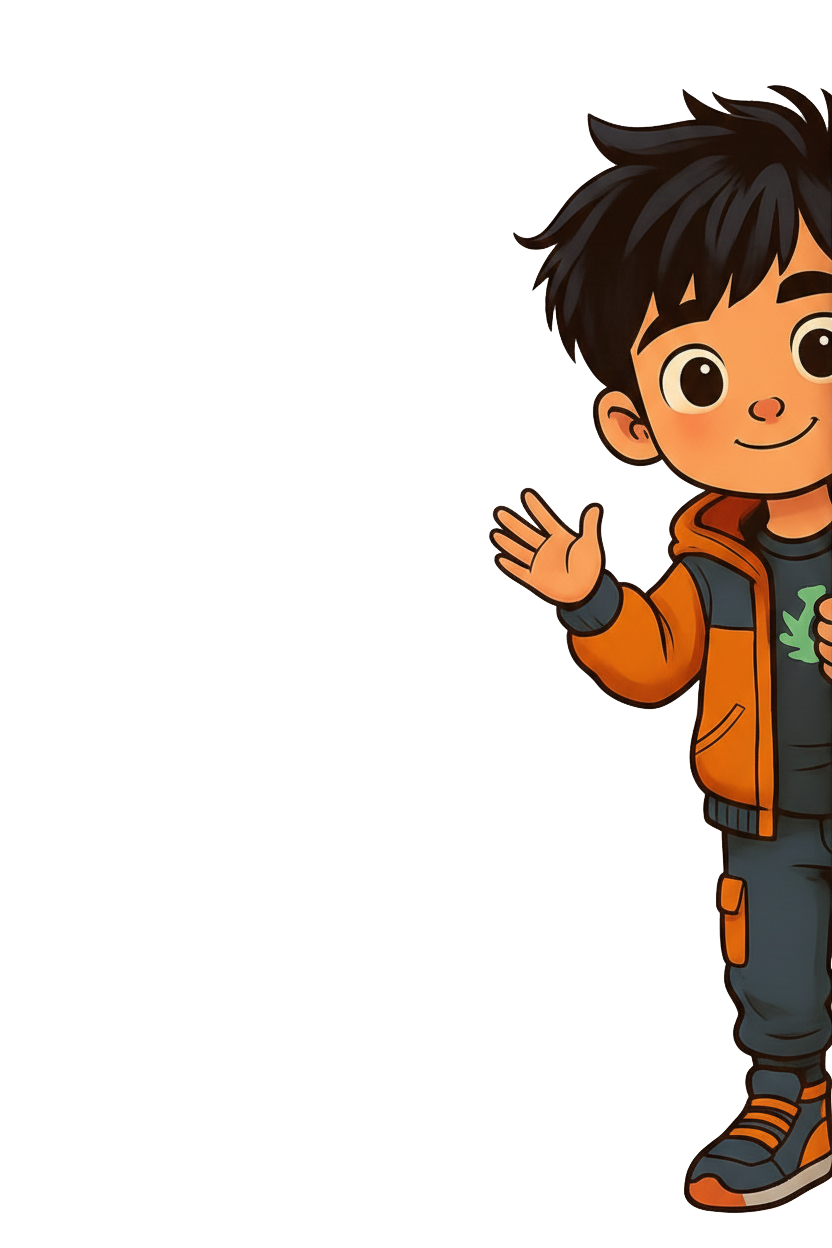
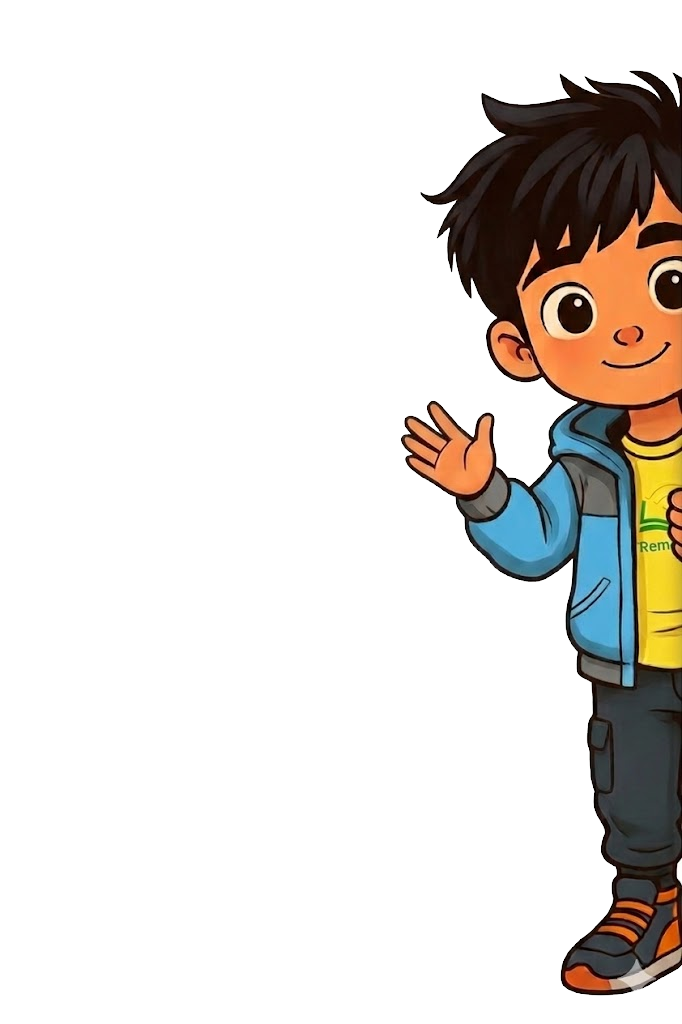
update characters

diff --git a/public/index.html b/public/index.html
@@ -79,7 +79,7 @@
         </div>
         <div class="hero-media">
           <img
-            src="images/remo-robot.png"
+            src="images/remo-jumping.png"
             alt="Remo Robot mascot"
             class="robot-float"
           />
